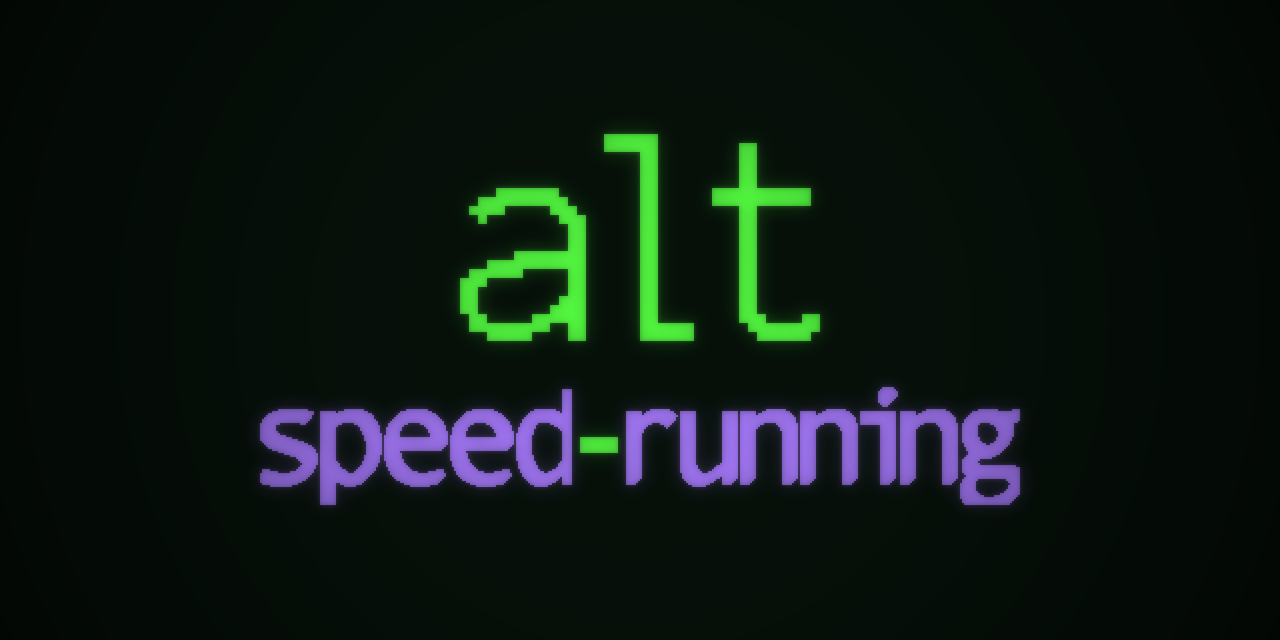
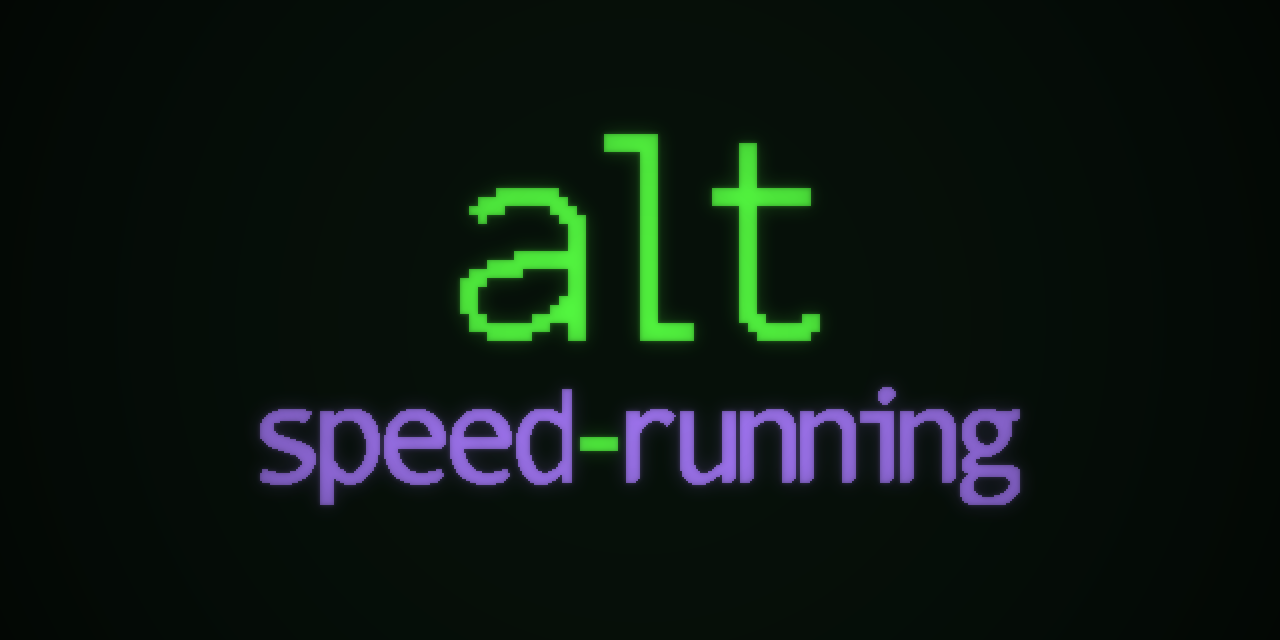
Social card: back to two dilation passes
Three closed the counters. 'speed-running' measured 16px stems against
the mark's 18, but the letterforms went mushy getting there - 'e' and
'g' started filling in and the word lost its shape.

Two passes, 14px stems. Slightly lighter than the mark above it, which
is the right relationship for a line that supports rather than leads,
and the letterforms stay legible.

Worth recording that the stem measurement did not catch this. 16px was
closer to the target and looked worse; the counters are what fail
first and nothing in the number said so.

diff --git a/brand/gen_social.py b/brand/gen_social.py
@@ -147,7 +147,7 @@ def main():
     # Two passes. One left it thinner than the mark above it;
     # at double the base resolution each pass adds only half as
     # much weight on the card as it did at base 33.
-    rows = thicken(rows, w, h, passes=3)
+    rows = thicken(rows, w, h, passes=2)
     sc = 2
     cut = text.index("-")
     colours = [
